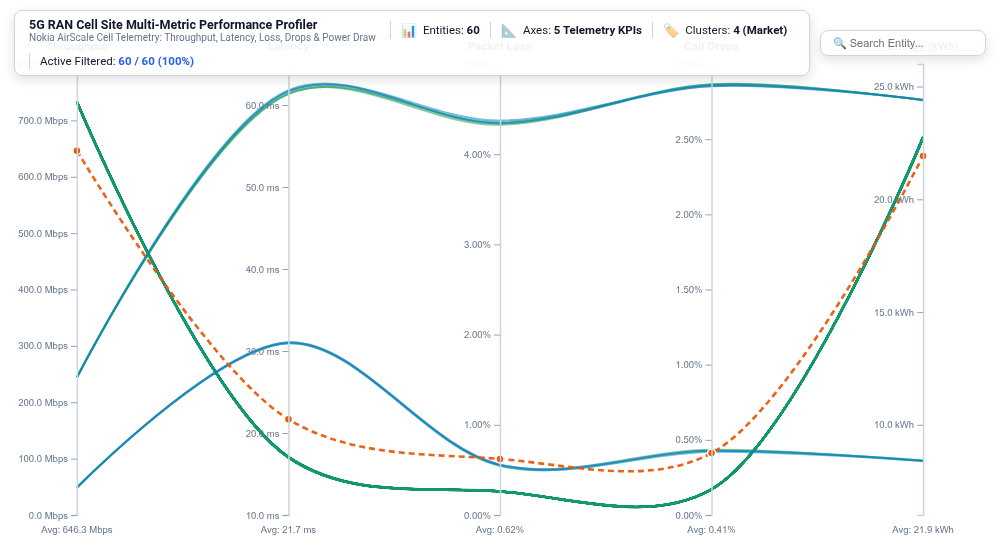
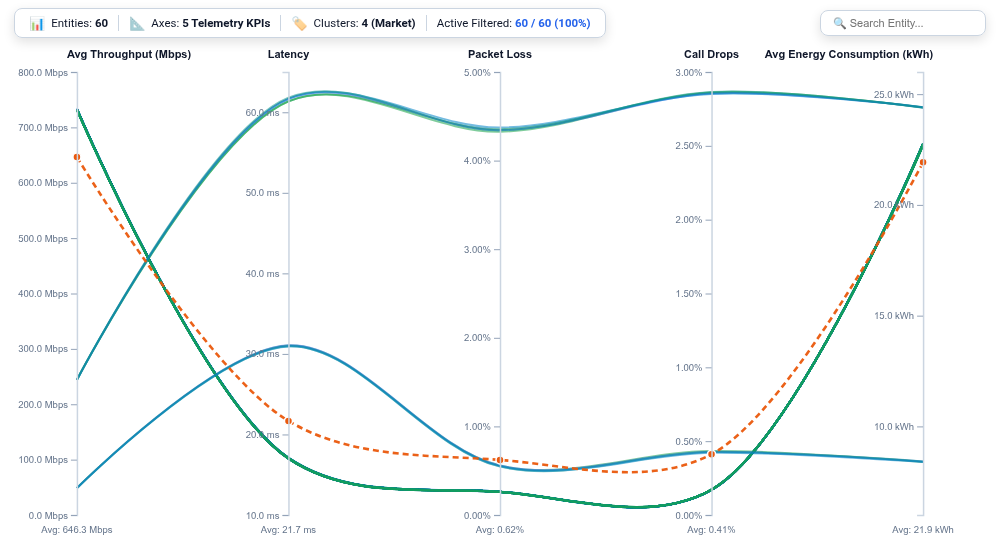
fix(parallel_coordinates_profiler): move KPI HUD and search into flow layout so they never overlap the chart; anchor edge axis headers inward

diff --git a/visualizations/parallel_coordinates_profiler/parallel_coordinates_profiler.js b/visualizations/parallel_coordinates_profiler/parallel_coordinates_profiler.js
@@ -670,6 +670,8 @@
         });
       }
       this._container.style.backgroundColor = theme.bg;
+      this._container.style.display = "flex";
+      this._container.style.flexDirection = "column";
 
       var fontScale = 1.0;
       if (config.fontScale === "compact") fontScale = 0.88;
@@ -797,16 +799,17 @@
 
       if (hudMode !== "hidden") {
         var hudContainer = document.createElement("div");
-        hudContainer.style.position = "absolute";
-        hudContainer.style.top = "10px";
-        hudContainer.style.left = "14px";
-        hudContainer.style.right = "14px";
+        // In-flow header row (never overlays the chart canvas)
+        hudContainer.style.position = "relative";
+        hudContainer.style.flex = "0 0 auto";
+        hudContainer.style.padding = (8 * fontScale) + "px 14px " + (4 * fontScale) + "px 14px";
         hudContainer.style.zIndex = "10";
         hudContainer.style.display = "flex";
+        hudContainer.style.flexWrap = "wrap";
         hudContainer.style.alignItems = "center";
         hudContainer.style.justifyContent = "space-between";
-        hudContainer.style.gap = "10px";
-        hudContainer.style.pointerEvents = "none";
+        hudContainer.style.gap = "8px 10px";
+        hudContainer.style.boxSizing = "border-box";
 
         var kpiCard = document.createElement("div");
         kpiCard.style.pointerEvents = "auto";
@@ -895,11 +898,22 @@
       // ==========================================
       // 3. SVG & LAYOUT CALCULATION
       // ==========================================
-      var containerRect = this._container.getBoundingClientRect();
-      var width = Math.max(450, containerRect.width);
-      var height = Math.max(320, containerRect.height);
+      // Chart canvas wrapper takes the remaining height below the HUD row
+      var chartWrap = document.createElement("div");
+      chartWrap.className = "parallel-coords-canvas";
+      chartWrap.style.position = "relative";
+      chartWrap.style.flex = "1 1 0";
+      chartWrap.style.minHeight = "0";
+      chartWrap.style.width = "100%";
+      chartWrap.style.overflow = "hidden";
+      this._container.appendChild(chartWrap);
 
-      var topMargin = (hudMode !== "hidden" ? 64 : 28) * fontScale;
+      var chartRect = chartWrap.getBoundingClientRect();
+      var width = Math.max(320, chartRect.width || 0);
+      var height = Math.max(200, chartRect.height || 0);
+
+      // Room for the axis header labels only (HUD is no longer overlaid)
+      var topMargin = 30 * fontScale;
       var bottomMargin = 45 * fontScale;
       var leftMargin = 60 * fontScale;
       var rightMargin = 60 * fontScale;
@@ -918,7 +932,7 @@
         .range([0, innerWidth])
         .padding(0.08);
 
-      var svg = d3.select(this._container)
+      var svg = d3.select(chartWrap)
         .append("svg")
         .attr("width", "100%")
         .attr("height", "100%")
@@ -1040,13 +1054,33 @@
       });
 
       // Axis Headers (Metric Names)
+      // Edge axes anchor inward so long headers never clip at the tile edges;
+      // headers longer than the axis spacing are truncated with a hover title.
+      var nAxes = activeMeasures.length;
+      var axisSpacing = nAxes > 1 ? (xScale.step ? xScale.step() : innerWidth / (nAxes - 1)) : innerWidth;
+      var headerFontPx = 11 * fontScale;
+      var maxHeaderChars = Math.max(6, Math.floor((axisSpacing - 10) / (headerFontPx * 0.58)));
       axisGroups.append("text")
-        .attr("text-anchor", "middle")
+        .attr("text-anchor", function (m, i) {
+          if (nAxes > 1 && i === 0) return "start";
+          if (nAxes > 1 && i === nAxes - 1) return "end";
+          return "middle";
+        })
+        .attr("x", function (m, i) {
+          if (nAxes > 1 && i === 0) return -10;
+          if (nAxes > 1 && i === nAxes - 1) return 10;
+          return 0;
+        })
         .attr("y", -14 * fontScale)
         .attr("fill", theme.text)
-        .attr("font-size", (11 * fontScale) + "px")
+        .attr("font-size", headerFontPx + "px")
         .attr("font-weight", "700")
-        .text(function (m) { return m.label_short || m.label || m.name; });
+        .text(function (m) {
+          var lbl = m.label_short || m.label || m.name;
+          return lbl.length > maxHeaderChars ? lbl.slice(0, maxHeaderChars - 1) + "\u2026" : lbl;
+        })
+        .append("title")
+        .text(function (m) { return m.label || m.label_short || m.name; });
 
       // Axis Footers (Metric Units / Summary)
       axisGroups.append("text")
@@ -1095,7 +1129,7 @@
           brushedCountSpan.textContent = passingCount + " / " + entities.length + " (" + pct + "%)";
         }
 
-        var clearBtn = document.getElementById("clear-brushes-btn");
+        var clearBtn = self._container.querySelector("#clear-brushes-btn");
         if (clearBtn) {
           clearBtn.style.display = hasActiveBrushes ? "inline-block" : "none";
           clearBtn.onclick = function () {
